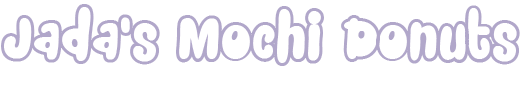
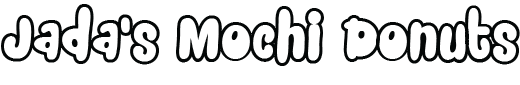
almost done with navbar

Changed region(s): [[0.3385, 0.0471, 1.0, 0.7765], [0.0, 0.0471, 0.3077, 0.7529]]

diff --git a/src/components/header.js b/src/components/header.js
@@ -5,35 +5,24 @@ import jmd from '../images/jmd.png'
 import ig from '../images/glyph-logo_May2016.png'
 
 const Header = ({ siteTitle }) => (
-  <header
-    style={{
-      background: ` #b1a6c8`,
-      borderBottom: `solid #f8b4c0 2px`
-    }}
-  >
-    <div
-      style={{
-        margin: `0 auto`,
-        padding: `1.45rem`,
-        display: 'grid',
-        gridTemplateColumns: '.35fr 1fr' 
-      }}
-    >
-      {/* <img src={jmd} alt="Jada's Mochi Donuts" style={{
-        width: '300px',
-        alignSelf: 'center'
-      }}/> */}
-      <p>Jada's Mochi Donuts</p>
-      <ul style={{
-        display: 'grid',
-        gridTemplateColumns: '1fr 1fr 1fr 1fr 1fr'
-      }}>
-        <li style={{listStyleType: 'none', justifySelf: 'center'}}><Link style={{color: 'black', textDecoration: 'none'}} to='/'>Home</Link></li>
-        <li style={{listStyleType: 'none', justifySelf: 'center'}}><Link style={{color: 'black', textDecoration: 'none'}} to='/about'>About</Link></li>
-        <li style={{listStyleType: 'none', justifySelf: 'center'}}><Link style={{color: 'black', textDecoration: 'none'}} to='/flavors'>Flavors</Link></li>
-        <li style={{listStyleType: 'none', justifySelf: 'center'}}><Link style={{color: 'black', textDecoration: 'none'}} to='/order'>Ordering</Link></li>
-        <li style={{listStyleType: 'none', justifySelf: 'center'}}><a href='https://www.instagram.com/jadasmochidonuts'><img style={{ width: `18.67px`}} src={ig} alt='Instagram' /></a></li>
+  <header className='header'>
+    <div className='navbar'>
+      <img className='navbar__img' src={jmd} alt="Jada's Mochi Donuts"/>
+      <ul className='navbar__linkHolder'>
+        <li className='navbar__links'><Link style={{color: 'black', textDecoration: 'none'}} to='/'>Home</Link></li>
+        <li className='navbar__links'><Link style={{color: 'black', textDecoration: 'none'}} to='/about'>About</Link></li>
+        <li className='navbar__links'><Link style={{color: 'black', textDecoration: 'none'}} to='/flavors'>Flavors</Link></li>
+        <li className='navbar__links'><Link style={{color: 'black', textDecoration: 'none'}} to='/order'>Ordering</Link></li>
+        <li className='navbar__links'><a href='https://www.instagram.com/jadasmochidonuts'><img style={{ width: `18.67px`}} src={ig} alt="Click for Jada's Mochi Donuts' Instagram Account" /></a></li>
       </ul>
+      <div className='navbar__more' >Click Here</div>
+      <div className='navbar__mobileHolder'>
+        <div className='navbar__links'><Link style={{color: 'black', textDecoration: 'none'}} to='/'>Home</Link></div>
+        <div className='navbar__links'><Link style={{color: 'black', textDecoration: 'none'}} to='/about'>About</Link></div>
+        <div className='navbar__links'><Link style={{color: 'black', textDecoration: 'none'}} to='/flavors'>Flavors</Link></div>
+        <div className='navbar__links'><Link style={{color: 'black', textDecoration: 'none'}} to='/order'>Ordering</Link></div>
+        <div className='navbar__links'><a href='https://www.instagram.com/jadasmochidonuts'><img style={{ width: `18.67px`}} src={ig} alt="Click for Jada's Mochi Donuts' Instagram Account" /></a></div>
+      </div>
     </div>
   </header>
 )

diff --git a/src/components/styles/_header.scss b/src/components/styles/_header.scss
@@ -1,0 +1,110 @@
+.header {
+  background: #b1a6c8;
+  border-bottom: solid #f8b4c0 2px
+}
+
+.navbar {
+  margin: 0 auto;
+  padding: 1.45rem;
+  display: grid;
+  @include xs {
+    grid-template-rows: .30fr .30fr 1fr
+  }
+  @include sm {
+    grid-template-rows: .30fr .30fr 1fr
+  }
+  @include md {
+    grid-template-columns: .35fr 1fr;
+    grid-template-rows: none
+  }
+  @include lg {
+    grid-template-columns: .35fr 1fr;
+    grid-template-rows: none
+  }
+  @include xl {
+    grid-template-columns: .35fr 1fr;
+    grid-template-rows: none
+  }
+  &__img {
+    width: 200px;
+    align-self: center;
+    @include xs {
+      justify-self: center;
+    }
+    @include sm {
+      justify-self: center;
+    }
+    @include md {
+      justify-self: start;
+    }
+    @include lg {
+      justify-self: start;
+    }
+    @include xl {
+      justify-self: start;
+    }
+  } 
+  &__linkHolder {
+    display: grid;
+    grid-template-columns: 1fr 1fr 1fr 1fr 1fr;
+    @include xs {
+      display: none
+    }
+    @include sm {
+      display: none
+    }
+    @include md {
+      display: grid
+    }
+    @include lg {
+      display: grid
+    }
+    @include xl {
+      display: grid
+    }
+  }
+  &__mobileHolder {
+    display: grid;
+    // grid-template-rows: 1fr 1fr 1fr 1fr 1fr;
+    @include xs {
+      display: grid;
+    }
+    @include sm {
+      display: grid;
+    }
+    @include md {
+      display: none
+    }
+    @include lg {
+      display: none
+    }
+    @include xl {
+      display: none
+    }
+  }
+  &__links {
+    list-style-type: none;
+    justify-self: center
+  }
+  &__more {
+    @include xs {
+      display: grid;
+      align-self: center;
+      justify-self: center
+    }
+    @include sm {
+      display: grid;
+      align-self: center;
+      justify-self: center
+    }
+    @include md {
+      display: none
+    }
+    @include lg {
+      display: none
+    }
+    @include xl {
+      display: none
+    }
+  }
+}

diff --git a/src/components/styles/layout.scss b/src/components/styles/layout.scss
@@ -4,4 +4,5 @@
 @import './slider.scss';
 @import './flavors.scss';
 @import './about.scss';
-@import './home.scss'
+@import './home.scss';
+@import './header.scss'
